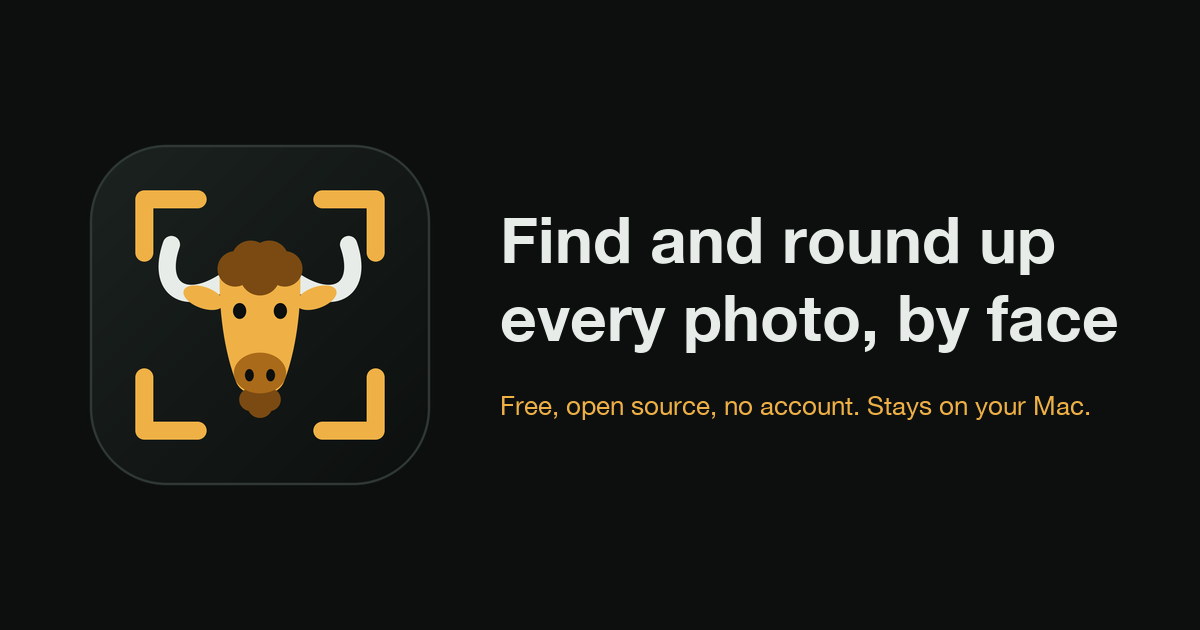
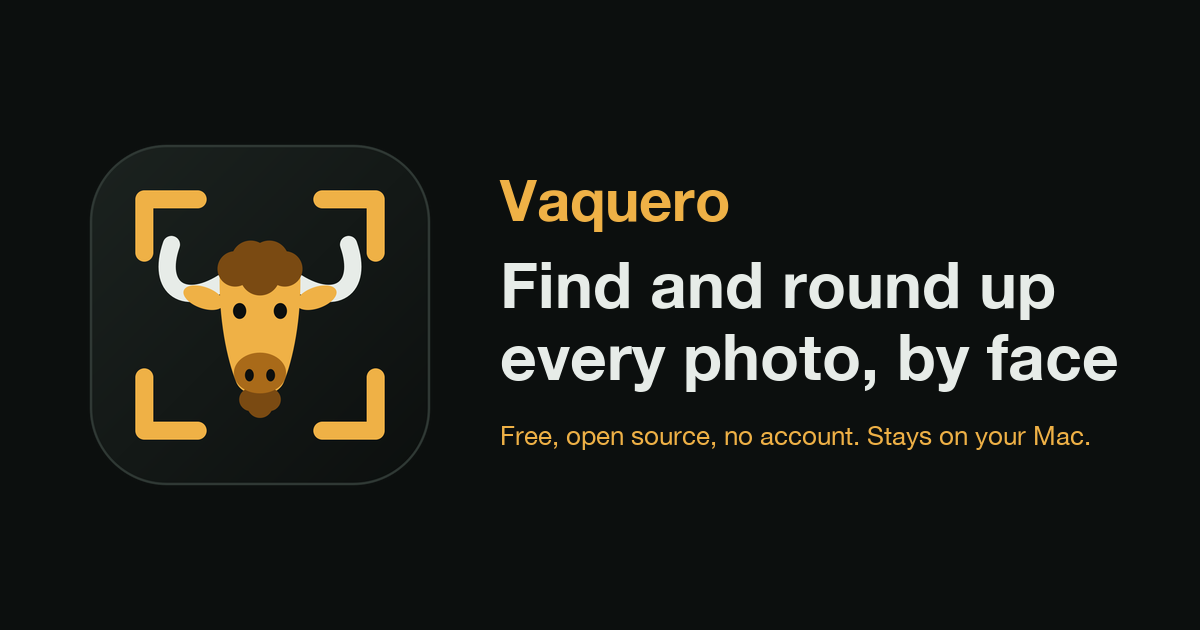
chore(site): name in the link preview image

Changed region(s): [[0.4008, 0.2714, 0.9558, 0.7238]]

diff --git a/scripts/make_web_icons.py b/scripts/make_web_icons.py
@@ -1,7 +1,7 @@
 """Renders the website's icons and link-preview image into site/public from assets/Vaquero.icns:
 favicon.ico (16, 32, 48 px), apple-touch-icon.png (180 px, opaque), icon-192.png and icon-512.png for the web manifest,
 icon-maskable-512.png (the icon inside the maskable safe zone on the app's background), and og-image.png
-(1200x630: the icon beside the headline).
+(1200x630: the icon beside the name and headline).
 
 Run: uv run python scripts/make_web_icons.py
 """
@@ -45,13 +45,16 @@ def og_image(icon: Image.Image) -> Image.Image:
     small = icon.resize((side, side), Image.LANCZOS)
     img.paste(small, (50, (h - side) // 2), small)
     draw = ImageDraw.Draw(img)
+    name = ImageFont.truetype(FONT, 58, index=1)
     bold = ImageFont.truetype(FONT, 64, index=1)
     regular = ImageFont.truetype(FONT, 26, index=0)
-    x, y = 500, 200
-    for line in HEADLINE:
-        draw.text((x, y), line, font=bold, fill=FG)
-        y += 78
-    draw.text((x, y + 34), TAGLINE, font=regular, fill=AMBER)
+    # text, font, color, space below; the block is centered on the icon
+    lines = [("Vaquero", name, AMBER, 30), (HEADLINE[0], bold, FG, 14), (HEADLINE[1], bold, FG, 34), (TAGLINE, regular, AMBER, 0)]
+    heights = [draw.textbbox((0, 0), text, font=font, anchor="lt")[3] for text, font, _, _ in lines]
+    y = (h - sum(heights) - sum(gap for *_, gap in lines)) / 2
+    for (text, font, color, gap), height in zip(lines, heights, strict=True):
+        draw.text((500, y), text, font=font, fill=color, anchor="lt")
+        y += height + gap
     return img
 
 
